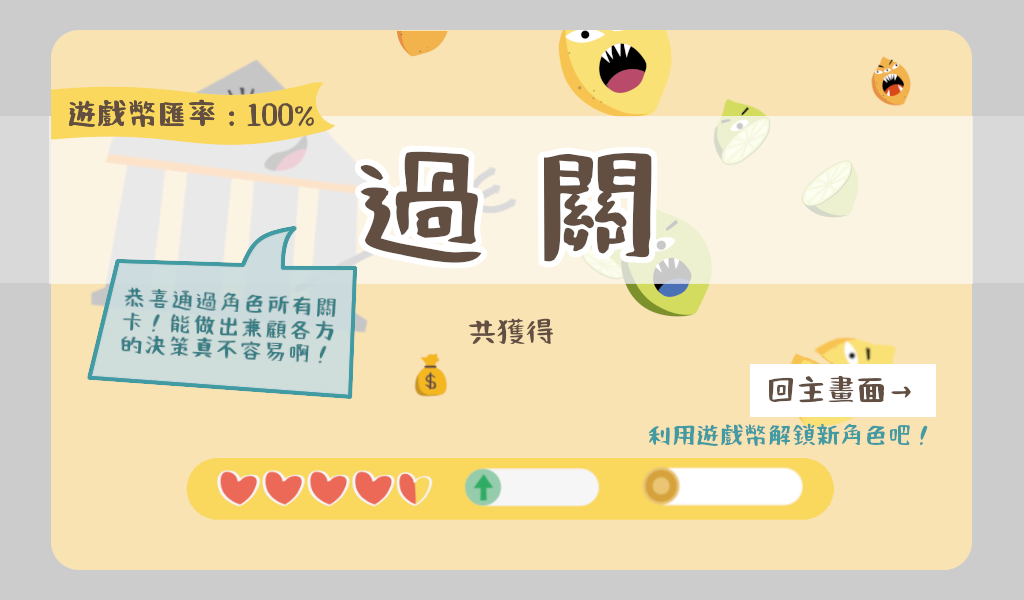
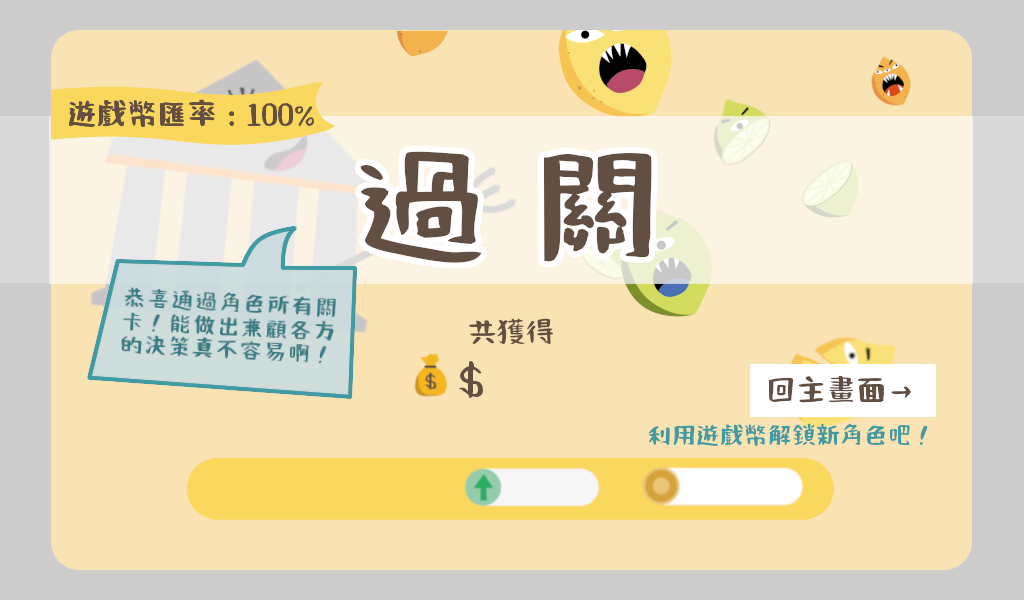
0808-1800

Changed region(s): [[0.1875, 0.78, 0.4375, 0.84], [0.4375, 0.6, 0.4688, 0.66]]

diff --git a/event/event.py b/event/event.py
@@ -1,3 +1,4 @@
+from color_settings import BLUE
 from event.event_gov import set_gov
 import random
 from event.player import *
@@ -205,7 +206,7 @@ class Events:
         self.win.blit(self.using_event.select2.image, self.using_event.select2.image_rect)     #show wfh
         self.win.blit(self.using_event.select3.image, self.using_event.select3.image_rect)     #show wfh
         self.start_round_rect = self.start_round.get_rect()
-        self.start_round_rect.center = (512,500)
+        self.start_round_rect.center = (365,520)
         self.win.blit(self.start_round,self.start_round_rect)
         self.draw_event_frame()
         level_image_rect = LEVEL1.get_rect()
@@ -296,65 +297,84 @@ class Events:
         game.game_model.notify = self.notify
         game.game_model.tower_money += tower_upgrade
     def keep_going(self,game):
-        print('keep going')
         self.next = 0
         self.chosen = []
+        percentage = [0,10,20,40,60]
         while True:
             #print('keep going',stage,money)
             self.win.blit(WIN_STAGE_BG,(0,0))
-            font = pygame.font.Font(FONT, 22)
-            text = font.render('level  ' + str(stage)+'money  ' + str(money), True, WHITE)
-            text_rect = text.get_rect(midright=(300, 535))
-            self.win.blit(text, text_rect)
+            text = '*' + str(game.game_model.tower_money) #塔防幣
+            show_text(self.win,text,30,550,470)
+            text = '#' + str(game.game_model.money) #金錢
+            show_text(self.win,text,30,735,470)
+            text = str(int(game.game_model.money * percentage[game.game_model.stage] / 100))
+            show_text(self.win,text,40,500,335) #中間遊戲幣
+            text = str( percentage[game.game_model.stage])+'%'
+            show_text(self.win,text,40,248,85)#左上目前%數
+            text = str( percentage[game.game_model.stage+1])+'%'
+            show_text(self.win,text,40,574,390,BLUE)#下一關%數
+            draw_hp(self.win, game.game_model.hp,game.game_model.max_hp)
             pygame.display.update()
             for event in pygame.event.get():
                 if event.type == pygame.MOUSEBUTTONDOWN:
-                    return False
+                    x, y = pygame.mouse.get_pos()
+                    if 86<x<86+186 and 379<y<379+55:
+                        dict_temp['money'] = str(int(dict_temp['money'])+int(game.game_model.money * percentage[game.game_model.stage]))
+                        file = open('dict.txt', 'w') 
+                        for k,v in dict_temp.items():
+	                        file.write(str(k)+' '+str(v)+'\n')
+                        file.close()
+                        return False,True
+                    elif 750<x<750+186 and 379<y<379+55:
+                        return False,False
                 if event.type == pygame.QUIT:
-                    return True
+                    return True,True
     def all_pass(self,game):
         self.using_player=0
-        print('all pass')
         while True:
             self.win.blit(ALL_PASS_BG,(0,0))
-            font = pygame.font.Font(FONT, 22)
-            text = font.render('level  ' + str(game.game_model.stage)+'money  ' + str(game.game_model.money), True, WHITE)
-            text_rect = text.get_rect(midright=(300, 535))
-            self.win.blit(text, text_rect)
-            self.using_player=0
+            text = '*' + str(game.game_model.tower_money)#塔防幣
+            show_text(self.win,text,30,550,470)
+            text = '#' + str(game.game_model.money)#金錢
+            show_text(self.win,text,30,735,470)
+            text = str(int(game.game_model.money))#中間遊戲幣
+            show_text(self.win,text,40,500,350)
+            draw_hp(self.win, game.game_model.hp,game.game_model.max_hp)
             pygame.display.update()
             for event in pygame.event.get():
                 if event.type == pygame.QUIT:
                     return True
                 if event.type == pygame.MOUSEBUTTONDOWN:
-                    return False
+                    x, y = pygame.mouse.get_pos()
+                    if 750<x<750+186 and 364<y<364+55:
+                        dict_temp['money'] = str(int(dict_temp['money'])+int(game.game_model.money))
+                        file = open('dict.txt', 'w') 
+                        for k,v in dict_temp.items():
+	                        file.write(str(k)+' '+str(v)+'\n')
+                        file.close()
+                        return False
                 
     def game_fail(self,game):
         self.using_player=0
-        print('game fail')
+        percentage = [0,10,20,40,60]
         while True:
             self.win.blit(FAIL_BG,(0,0))
-            text = '*' + str(game.game_model.tower_money)
+            text = '*' + str(game.game_model.tower_money)#塔防幣
             show_text(self.win,text,30,550,470)
-            text = '#' + str(game.game_model.money)
+            text = '#' + str(game.game_model.money) #金錢
             show_text(self.win,text,30,735,470)
-            self.using_player=0
-            percentage = 0
-            if game.game_model.stage == 1:
-                percentage = 10
-            elif game.game_model.stage == 2:
-                percentage = 20
-            elif game.game_model.stage == 3:
-                percentage = 40
-            elif game.game_model.stage == 4:
-                percentage = 60
-            text = str(int(game.game_model.money * percentage / 100))
-            show_text(self.win,text,30,500,357)
+            text = str(int(game.game_model.money * percentage[game.game_model.stage] / 100))
+            show_text(self.win,text,40,500,357)#中間遊戲幣
             pygame.display.update()
             for event in pygame.event.get():
                 if event.type == pygame.MOUSEBUTTONDOWN:
                     x, y = pygame.mouse.get_pos()
                     if 750<x<750+186 and 379<y<379+55:
+                        dict_temp['money'] = str(int(dict_temp['money'])+int(game.game_model.money * percentage[game.game_model.stage]/100))
+                        file = open('dict.txt', 'w') 
+                        for k,v in dict_temp.items():
+	                        file.write(str(k)+' '+str(v)+'\n')
+                        file.close()
                         return False
                 if event.type == pygame.QUIT:
                     return True
@@ -367,3 +387,17 @@ def show_text(win,text,size,x,y,color = BROWNGRAY):
     text = font.render(text, True, color)
     text_rect = text.get_rect(topleft=(x, y))
     win.blit(text, text_rect)
+def draw_hp(win, hp,max_hp):
+    # draw_lives
+    hp_image_rect = HEART_FULL_IMAGE.get_rect()
+    for i in range(1,max_hp, 2):
+        hp_image_rect.center = (200+i*18, 480)
+        if i < hp:
+            win.blit(HEART_FULL_IMAGE, hp_image_rect.center)
+        elif i == hp:
+            if hp == 0:
+                win.blit(HEART_FULL_IMAGE, hp_image_rect.center)
+            else:
+                win.blit(HEART_HALF_IMAGE, hp_image_rect.center)
+        else:
+            win.blit(HEART_EMPTY_IMAGE, hp_image_rect.center)

diff --git a/game/game.py b/game/game.py
@@ -24,7 +24,7 @@ class Game:
         
         self.keep_going = False
         while (not self.quit_game) and (not self.keep_going) and not self.all_pass and not self.fail:
-            pygame.time.Clock().tick(FPS)  # control the frame rate
+            pygame.time.Clock().tick(FPS*20)  # control the frame rate
             game_control.receive_user_input()  # receive user input
             game_control.update_model()  # update the model
             game_control.update_view()  # update the view
@@ -32,20 +32,17 @@ class Game:
             self.keep_going = game_control.keep_going
             self.fail = game_control.fail
             self.quit_game = game_control.quit_game
-        self.fail = True
         if self.quit_game:
             pass
         elif self.fail:
             self.keep_going = False
-            print('fail')
         elif self.keep_going :
             self.game_model.seller.update(self.game_model)
-            if self.game_model.stage == 1:
+            if self.game_model.stage == 2:
                 self.all_pass = True
                 self.keep_going = False
-                print('all pass')
             else:
-                print('keepgoing')
+                pass
         print(self.keep_going,self.fail,self.all_pass,self.quit_game)
         return self.quit_game
     def mute(self,mute):

diff --git a/event/event_setting.py b/event/event_setting.py
@@ -18,16 +18,17 @@ class an_decision():
         self.notify =notify_image
         self.image = pygame.transform.scale(image, (400, 60))
         self.image_rect = self.image.get_rect()
-        self.image_rect.center = (175+200,200+(num-1)*100+30)
-        self.frame = pygame.Rect(175+200 - 205, 200+(num-1)*100+30 - 35, 405 + 5, 60 + 10)
+        self.image_rect.center = (165+200,200+(num-1)*100+30)
+        self.frame = pygame.Rect(165+200 - 205, 200+(num-1)*100+30 - 35, 405 + 5, 60 + 10)
         self.selected = None
         
 class an_question:
     def __init__(self,num,image) -> None:
         if image.get_height()>300:
-            self.image = pygame.transform.scale(image, (590, 90))
+            self.image = pygame.transform.scale(image, (590, 80))
         else:
-            self.image = pygame.transform.scale(image, (590, 45))
+            self.image = pygame.transform.scale(image, (590, 40))
+            
         self.image_rect = self.image.get_rect()
         self.image_rect.center=(400,120)
         pass

diff --git a/game/controller.py b/game/controller.py
@@ -79,12 +79,12 @@ class GameControl:
                 self.count += 1
         elif self.wait == 0:
             self.view.draw_wait(self.wait)
-            self.model.enemies.add(10,self.model.stage)
+            self.model.enemies.add(20,self.model.stage)
             self.model.stage += 1
-            self.view.draw_progress(self.model.get_progress,10)
+            self.view.draw_progress(self.model.get_progress,2)
             self.wait -= 1
         else:
-            self.view.draw_progress(self.model.get_progress,10)
+            self.view.draw_progress(self.model.get_progress,2)
             pass
     @property
     def quit_game(self):
